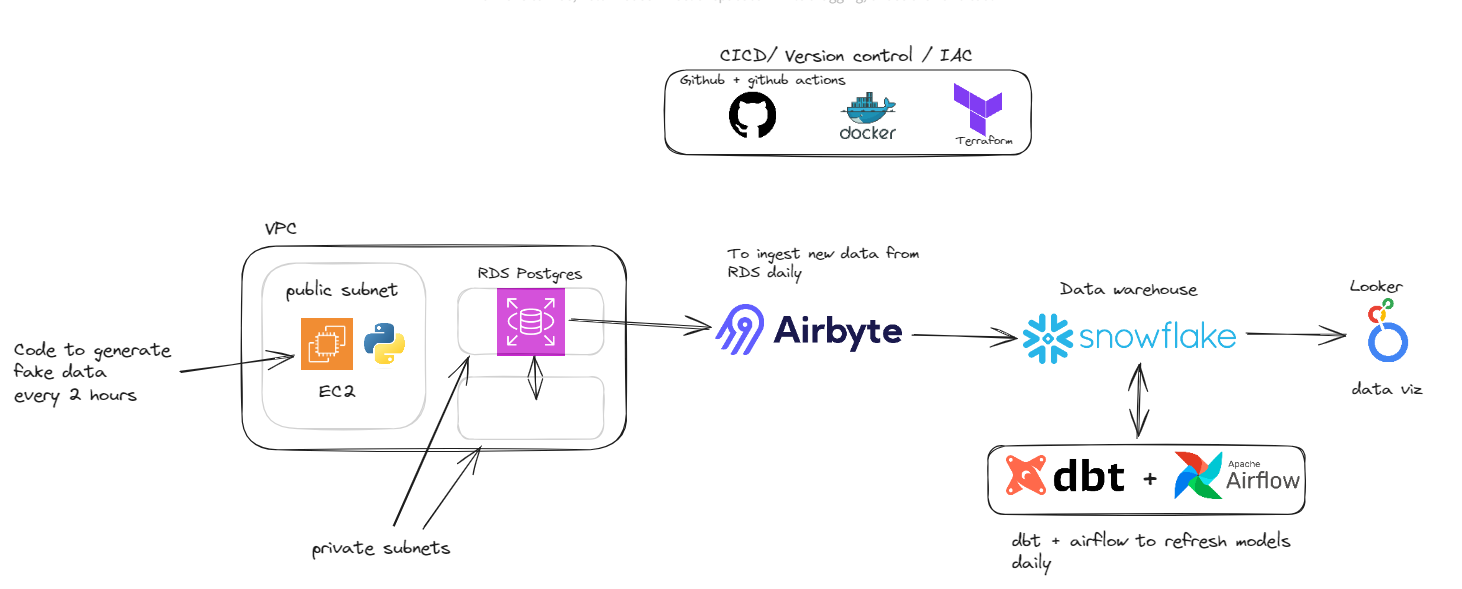
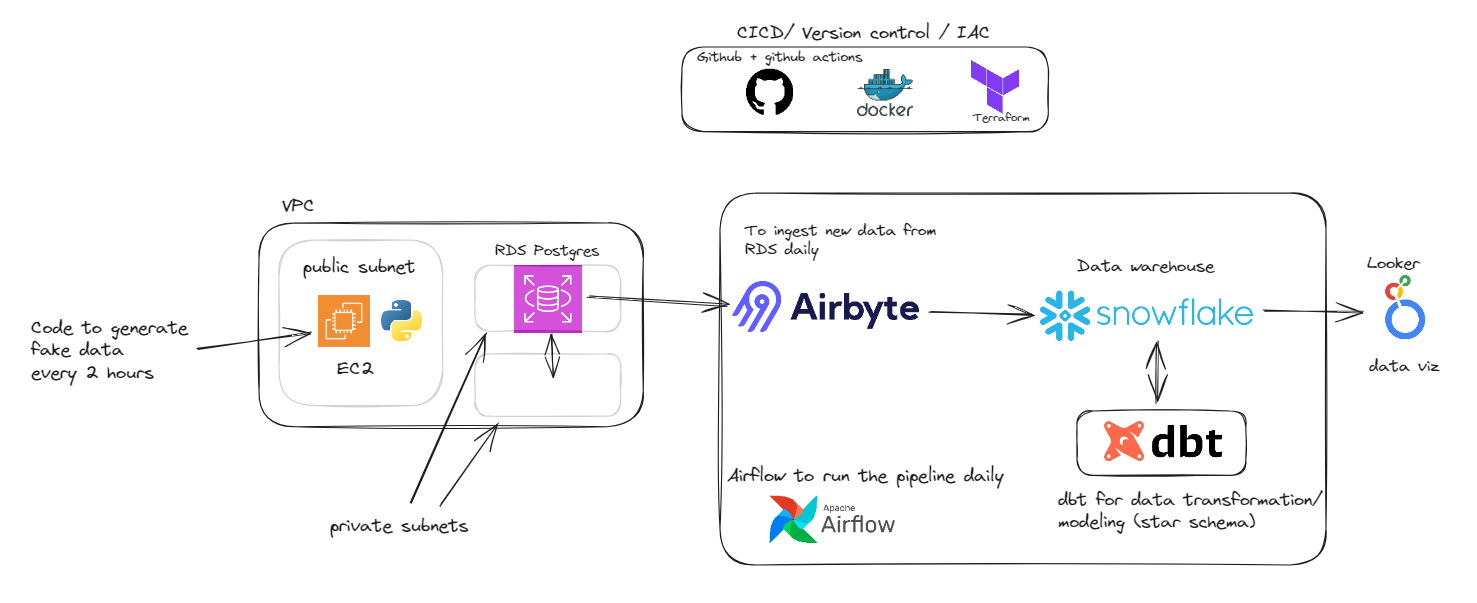
add airbyte sync-airflow

diff --git a/airflow/dags/cosmos_dbt_dag.py b/airflow/dags/cosmos_dbt_dag.py
@@ -1,23 +1,15 @@
 from cosmos.config import ProjectConfig, ProfileConfig, ExecutionConfig, RenderConfig
 from cosmos.airflow.task_group import DbtTaskGroup
+from airflow.providers.airbyte.operators.airbyte import AirbyteTriggerSyncOperator
 from cosmos.profiles import SnowflakeUserPasswordProfileMapping
 from datetime import datetime 
 from airflow.decorators import dag
 from cosmos.constants import LoadMode
+import os
 
 DBT_PROJECT_PATH = "/opt/airflow/dags/dbt/dbt_transformation"
 DBT_EXECUTABLE_PATH = "/opt/airflow/dbt_venv/bin/dbt"
-
-# dev environment 
-profile_config_dev = ProfileConfig(
-    profile_name="modern_warehouse",
-    target_name="dev",
-    profile_mapping= SnowflakeUserPasswordProfileMapping(
-        conn_id="snowflake_conn",
-        profile_args={"database": "DBT_DEV", "schema": "staging"},
-    ),
-)
-
+AIRBYTE_JOB_ID = os.getenv('AIRBYTE_JOB_ID', ''),
 
 # profile for the prod env
 profile_config_prod = ProfileConfig(
@@ -31,26 +23,19 @@ profile_config_prod = ProfileConfig(
 
 @dag(
     schedule_interval="@daily",
-    start_date=datetime(2024, 3, 20),
+    start_date=datetime(2024, 3, 22),
     catchup=False,
     tags=["dbt", "snowflake"],
     dag_id='dbt-snowflake-dag'
 )
-def dbt_dag():
-    transform_dev = DbtTaskGroup(
-        group_id = "dbt_dev",
-        project_config=ProjectConfig(DBT_PROJECT_PATH),
-        execution_config = ExecutionConfig(dbt_executable_path = DBT_EXECUTABLE_PATH),
-        profile_config=profile_config_dev,
-        default_args={"retries": 2},
-        render_config=RenderConfig(
-            load_method=LoadMode.DBT_LS,
-            select=['path:models']
-        )
+def dataplatfom_dag():
+    ingest_airbyte = AirbyteTriggerSyncOperator(
+        task_id="load_tables_rds_snowflake",
+        airbyte_conn_id="airbyte_conn",
+        connection_id=AIRBYTE_JOB_ID,
     )
 
-
-    transform_prod = DbtTaskGroup(
+    dbt_transform = DbtTaskGroup(
         group_id = "dbt_prod",
         project_config=ProjectConfig(DBT_PROJECT_PATH),
         execution_config = ExecutionConfig(dbt_executable_path = DBT_EXECUTABLE_PATH),
@@ -63,9 +48,9 @@ def dbt_dag():
     )
 
 
-    transform_dev >> transform_prod
+    ingest_airbyte >> dbt_transform
 
-dbt_dag()
+dataplatfom_dag()
 
 
 

diff --git a/README.md b/README.md
@@ -16,8 +16,17 @@ AIRBYTE_ROLE : used by airbyte to write in the RAW database (postgres_airbyte sc
 
 * Ingest data (daily) from RDS to Snowflake : Airbyte
 
-* DBT structure 
+## DBT structure 
 
+## Airflow : 
+* When the CD to deploy the airflow code is done, we need to execute this on the EC2 instance: 
+```
+cd airflow 
+docker exec (webserver_container_id) /bin/bash -c "source /opt/airflow/dbt_venv/bin/activate && cd /opt/airflow/dags/dbt/dbt_transformation/ && dbt deps && deactivate"
+```
+
+
+* Then create the snowflake_conn and the airbyte_conn
 
 
 
